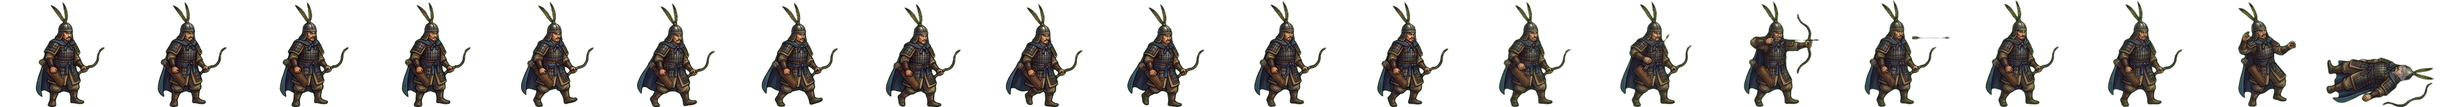
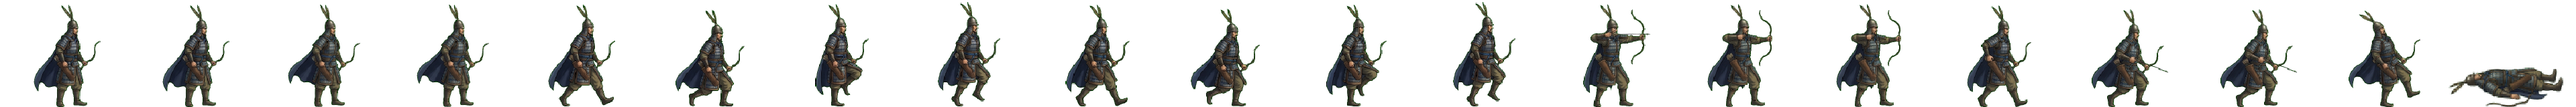
활 장수 띠 20컷 다시 — 걷기가 한 자세였다 · 시위 당기기·쏘기·화살 꺼내기 새로 (제미나이 4 Argon)
Claude-Session: https://claude.ai/code/session_01TRiuNBGbXbYg8PKZrR5zi4

Changed region(s): [[0.0, 0.0625, 1.0, 1.0], [0.8071, 0.0625, 0.8382, 0.1875], [0.3104, 0.0625, 0.3415, 0.1875]]

diff --git a/src/realm/data/art.ts b/src/realm/data/art.ts
@@ -460,7 +460,7 @@ export const SOL_ANIM_AR: Readonly<Record<string, number>> = { spear: 167 / 160,
 export type GenSprite = 'g-sword' | 'g-bow' | 'g-spear' | 'w-spear' | 'w-bow' | 'mount'
 export const GEN_ANIM: Readonly<Partial<Record<string, { ar: number; body: number; bow?: true }>>> = {
   'g-sword': { ar: 162 / 160, body: 0.941 }, // 11-03 걷기가 한 자세라 20컷 통째로 다시 (제미나이 4 Argon · tools/assemble-gen20.mjs)
-  'g-bow': { ar: 182 / 160, body: 0.984, bow: true },
+  'g-bow': { ar: 192 / 160, body: 0.948, bow: true }, // 11-03 20컷 다시 (걷기가 한 자세였다)
   'g-spear': { ar: 297 / 160, body: 0.988 },
   'w-spear': { ar: 437 / 160, body: 0.996 },
   'w-bow': { ar: 185 / 160, body: 0.967, bow: true },
